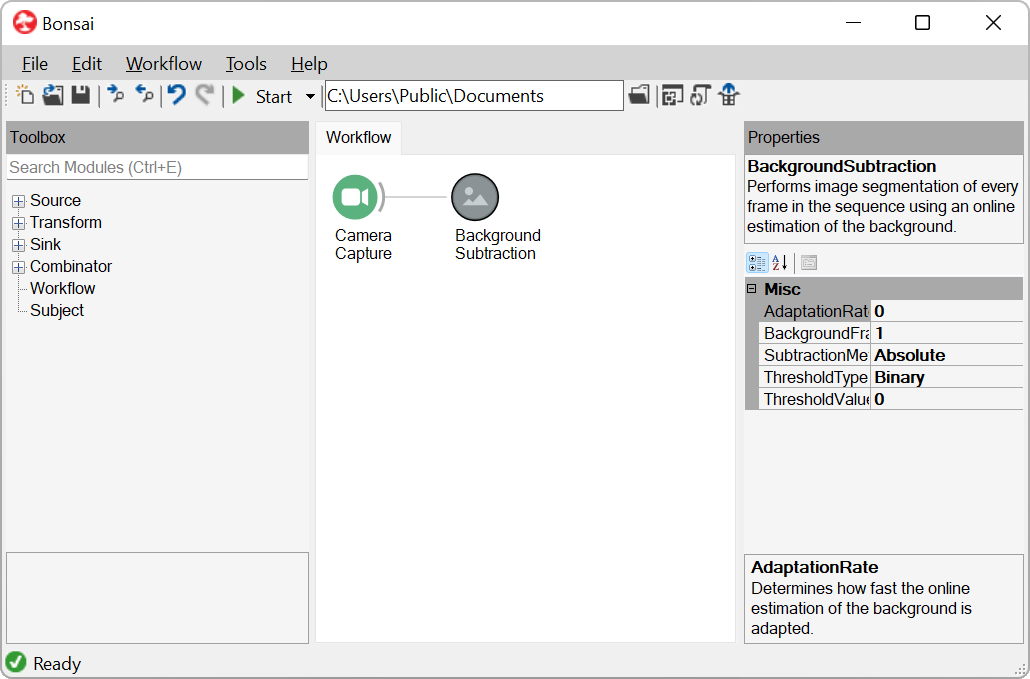
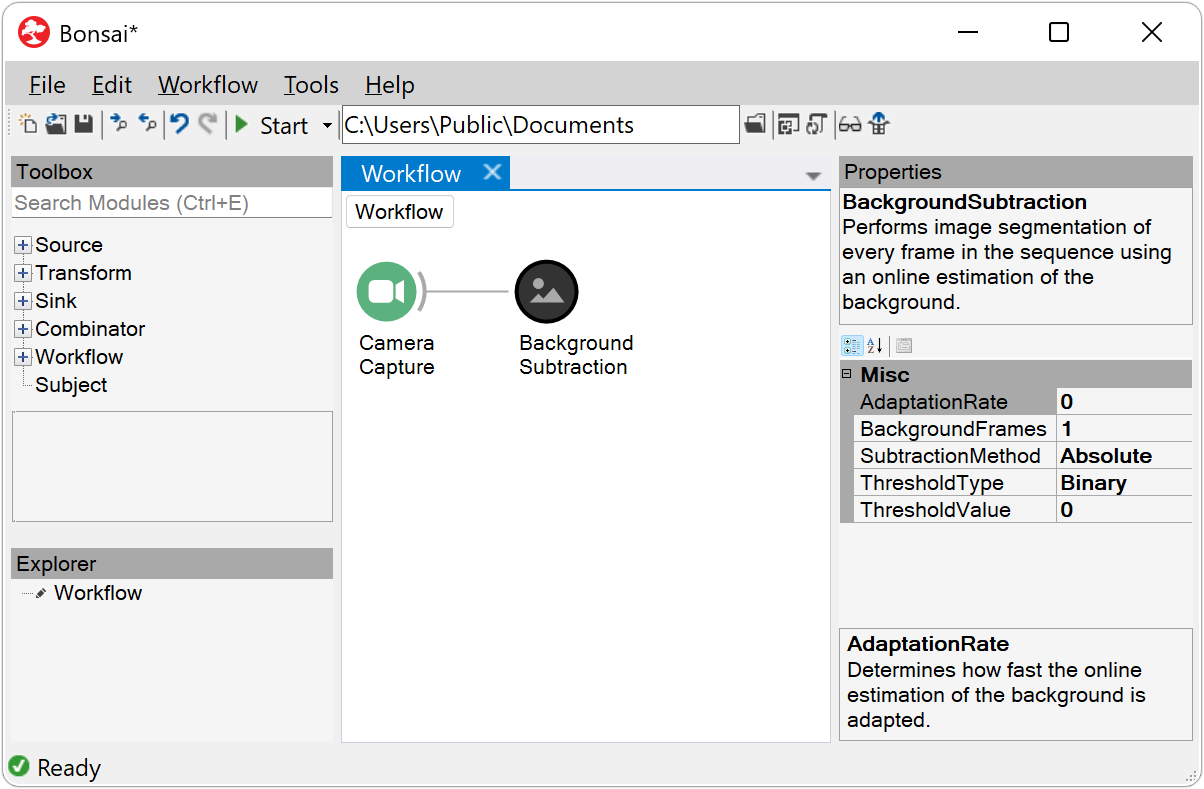
Update "Workflow Editor" article for Bonsai 2.9 (#147)
* Add explorer panel section
* Update location of visualizer layout file
* Add breadcrumb text to workflow panel section
* Add find all references to operator search section
* Add watch mode to workflow panel section
* Add workflow navigation and layout section
* Update existing editor screenshots
* Add new screenshots for dock panels, explorer and properties

Changed region(s): [[0.0, 0.0, 1.0, 1.0], [0.6835, 0.8041, 0.9631, 0.9588]]

diff --git a/articles/editor.md b/articles/editor.md
@@ -4,7 +4,7 @@ uid: editor
 
 # Workflow Editor
 
-When Bonsai starts you will be taken directly to the workflow editor. This is where you can create, configure, and run Bonsai workflows. The editor is composed of three main panels: the [`Toolbox`](#toolbox), the [`Workflow`](#workflow), and [`Properties`](#properties). These are described in more detail below.
+When Bonsai starts you will be taken directly to the workflow editor. This is where you can create, configure, and run Bonsai workflows. The editor is composed of four main panels: [`Toolbox`](#toolbox), [`Workflow`](#workflow), [`Explorer`](#explorer) and [`Properties`](#properties). These are described in more detail below.
 
 ![The Bonsai workflow editor](~/images/editor.png)
 
@@ -32,7 +32,7 @@ Another way to quickly find operators is to use the `Search` textbox. Any text i
 > [!Tip]
 > You can directly type and search for operator names when the `Workflow` panel has the input focus. This allows you to simply start typing an operator name and directly select which operator you want with the up/down arrow keys. Once you have the right operator, press the <kbd>Enter</kbd> key to place it. You can repeat the process multiple times to very quickly chain a sequence of operators.
 
-Another useful function of the `Search` textbox is to find existing instances of the selected toolbox operator in the workflow. Once you select an operator in the toolbox, you can use the `Find Next` or `Find Previous` commands to jump into the next instance of the operator, subject, or workflow extension, starting from the current cursor position.
+Another useful function of the `Search` textbox is to find existing instances of the selected toolbox operator in the workflow. Once you select an operator in the toolbox, you can use the `Find Next` or `Find Previous` commands to jump into the next instance of the operator, subject, or workflow extension, starting from the current cursor position. You can also right-click on an operator in the toolbox and select `Find All References` to list all instances of the operator in the workflow.
 
 > [!Tip]
 > You can browse through the reference documentation to learn more about each operator in the `Toolbox` by pressing <kbd>F1</kbd> or selecting `View Help` from the context menu.
@@ -73,7 +73,7 @@ For example, image streams can be displayed on the screen using the default imag
 
 #### Visualizer layout settings
 
-If you leave one or more visualizers open when you stop the workflow, the editor will memorize the position and size of each active window. When you run the workflow again, the same visualizer windows will be opened following the memorized layout. These settings are stored in a `.layout` file which is saved side by side with the workflow so they will persist between editor sessions.
+If you leave one or more visualizers open when you stop the workflow, the editor will memorize the position and size of each active window. When you run the workflow again, the same visualizer windows will be opened following the memorized layout. These settings are stored in a `.layout` file within the `.bonsai` settings folder, allowing them to persist between editor sessions.
 
 > [!Tip]
 > Many visualizers allow you to access more detailed information or advanced configuration parameters by right-clicking on the visualizer window.
@@ -92,7 +92,50 @@ All included workflow extensions are read-only, meaning that you cannot change t
 > [!Warning]
 > When you change the structure of an included workflow and save it over the original file, all references to that workflow extension will be automatically reloaded and updated. This ensures that all references to the same extension remain consistent throughout.
 
+### Watch Mode
+
+To assist with debugging workflows, you can enable watch mode on individual nodes by selecting an operator and clicking on `Toggle Watch` in the toolbar. The watch mode provides runtime feedback on whether the operator has an active subscription from a downstream operator, is emitting values, or whether its subscriptions have terminated. Each status is visually annotated with a symbol displayed adjacent to the operator.
+
+| Status    | Annotation                                                                | Description |
+| --------- | ----------------------------------------------------------------------    | ----------- |
+| Ready     | ![Watch Status Ready](../images/editor-watch-ready.png){width=40}         | No subscriptions have yet been made |
+| Active    | ![Watch Status Active](../images/editor-watch-active.png){width=40}       | At least one active subscription but no values have been emitted yet |
+| Notifying | ![Watch Status Notifying](../images/editor-watch-notifying.png){width=40} | At least one active subscription and emitted at least one value in the last period |
+| Completed | ![Watch Status Completed](../images/editor-watch-completed.png){width=40} | No active subscriptions and at least one subscription terminated successfully |
+| Error     | ![Watch Status Completed](../images/editor-watch-error.png){width=40}     | No active subscriptions and at least one subscription terminated exceptionally |
+| Canceled  | ![Watch Status Canceled](../images/editor-watch-canceled.png){width=40}   | No active subscriptions and at least one subscription was canceled without termination |
+
+> [!WARNING]
+> The watch mode refreshes at a maximum rate of 10 Hz and should not be relied upon to evaluate aspects of workflow behaviour that rely on precise timing.
+
+> [!WARNING]
+> As the watch mode does not currently track individual subscriptions, care must be taken when interpreting multiple parallel subscriptions, as the true state of each one may be obscured.
+
+### Navigation and Layout
+
+You can take advantage of tabs, windows, breadcrumbs and docked panels to navigate complex nested workflows and organize your workspace.
+
+![Editor Dock Panel](../images/editor-dockpanel.png)
+
+Right-clicking on a nested node such as a [`GroupWorkflow`](xref:Bonsai.Expressions.GroupWorkflowBuilder) will bring up the context menu, where you can select the `Open in New Tab` or `Open in New Window` commands. You can also access these commands by right-clicking on the tab header or window title bar.
+
+Each tab or window displays a breadcrumb trail at the top, indicating the location of the current view within the nested workflows. Clicking a breadcrumb switches the view to the corresponding workflow, allowing you to navigate between levels.
+
+You can further organize tabs and windows by rearranging them into docked panels. To do this, click and drag a tab header or window title bar towards the center of the screen. A docking guide overlay will appear, allowing you to position the panel in different regions of the workspace. Once the panel has been placed, you can reposition the borders of the panel, as well as create new tabs.
+
+## Explorer
+
+![Editor Explorer Panel](../images/editor-explorer.png){width=300} 
+
+The `Explorer` panel also supports workflow navigation by providing a hierarchical tree view, similar to a file browser. Each level in the tree corresponds to a nested node. Selecting a node will update the `Workflow` panel view to display the corresponding nested workflow. You can also navigate the tree by using the keyboard arrow keys and pressing <kbd>Enter</kbd> to update the view. To open the node in a new tab or window, right-click on the node label and select one of the options. To expand or collapse the tree view at any level, click on the `+` or `-` icon to the left of the node label, or double-click the label itself. Icons adjacent to each label indicate the status of the corresponding workflow:
+
+- ✏ Editable workflow
+- 🔒 Locked workflow (`IncludeWorkflow`)
+- ⛔ Workflow contains errors
+
 ## Properties
+
+![Editor Properties Panel](../images/editor-properties.png){width=300} 
 
 Each operator exposes a set of configuration properties that parameterize the operator's behaviour (e.g., the [`Timer`](xref:Bonsai.Reactive.Timer) operator exposes the period between generated values, whereas an image [`Threshold`](xref:Bonsai.Vision.Threshold) exposes the brightness cutoff value applied to individual pixels).
 
